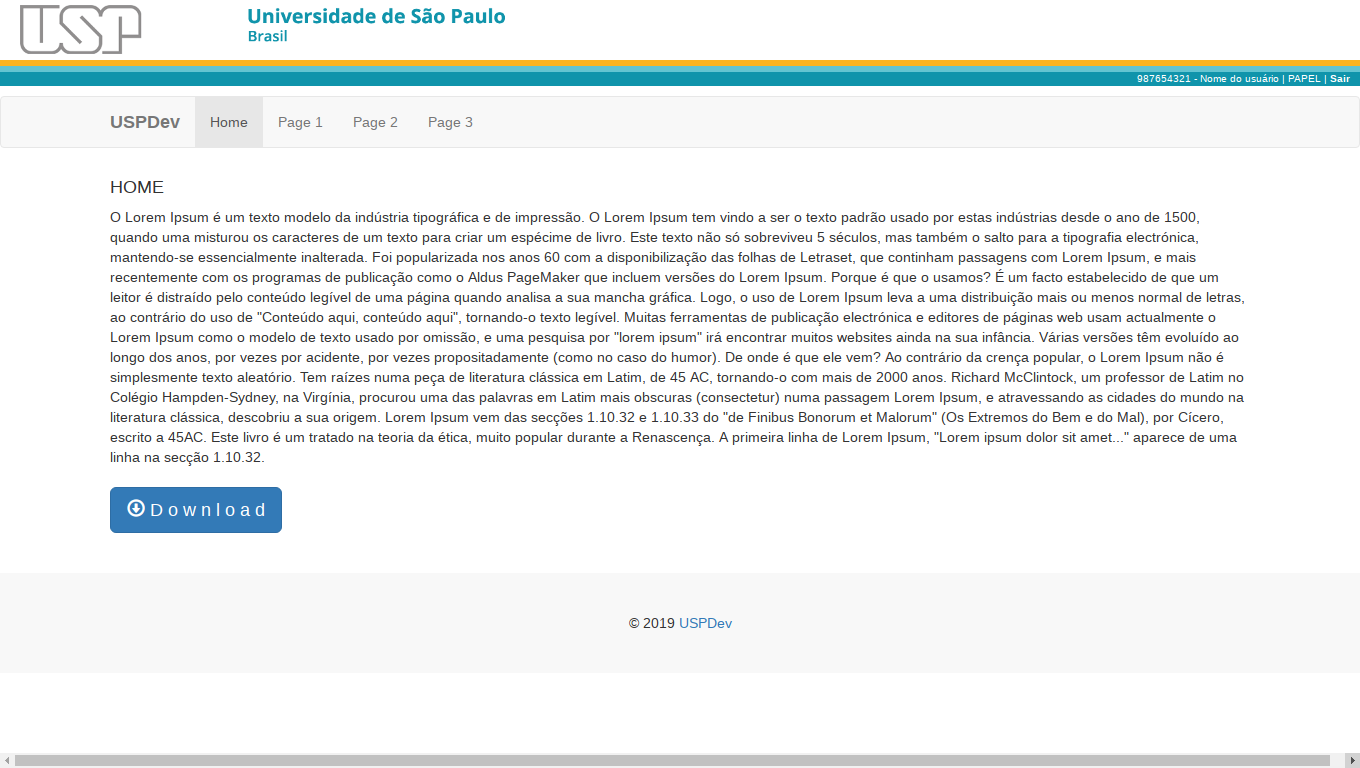
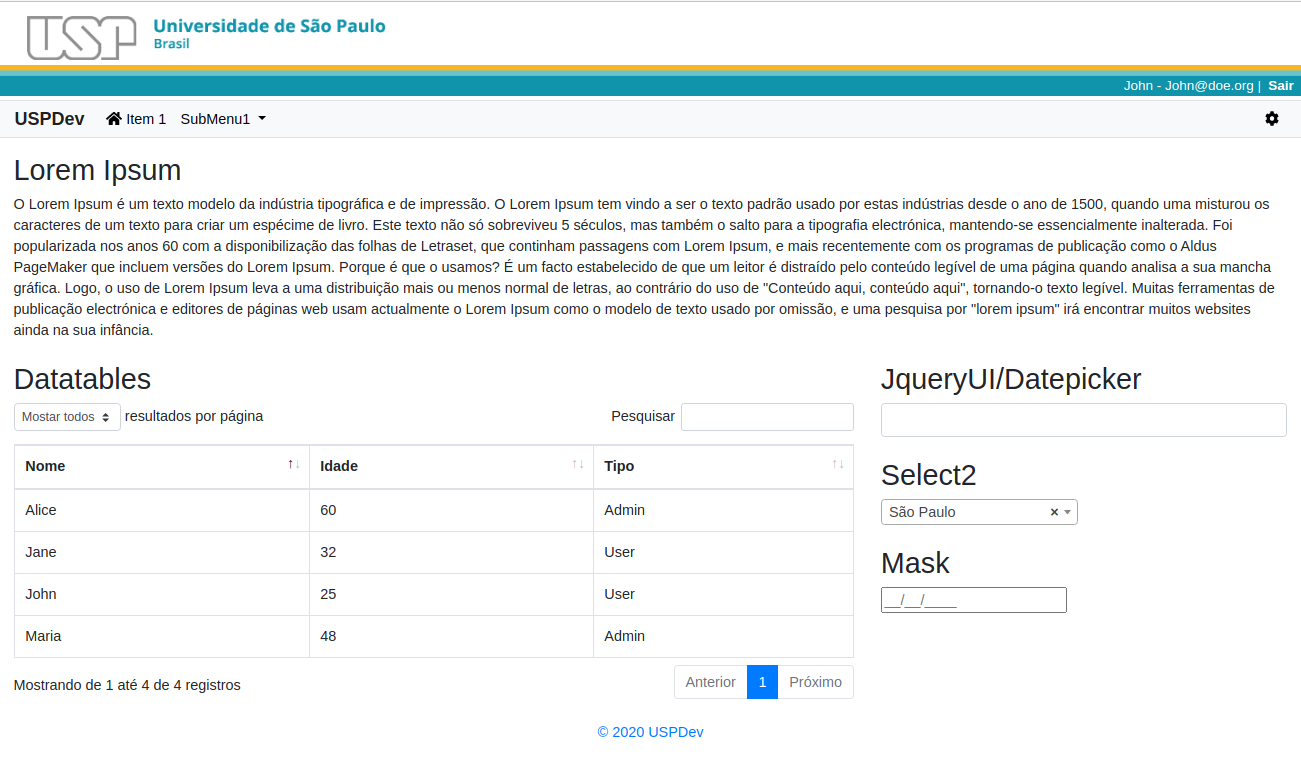
fix #29 - menu responsivo
Também:
- reorganizado js e css
-  exemplos de uso dos js
-  atualização do readme

diff --git a/resources/assets/js/script.js b/resources/assets/js/script.js
@@ -1,0 +1,39 @@
+$(document).ready(function() {
+
+    //JqueryUI:Datepicker
+    $('.datepicker, .datePicker').datepicker({
+        dateFormat: 'dd/mm/yy'
+        , dayNames: ['Domingo', 'Segunda', 'Terça', 'Quarta', 'Quinta', 'Sexta', 'Sábado']
+        , dayNamesMin: ['D', 'S', 'T', 'Q', 'Q', 'S', 'S', 'D']
+        , dayNamesShort: ['Dom', 'Seg', 'Ter', 'Qua', 'Qui', 'Sex', 'Sáb', 'Dom']
+        , monthNames: ['Janeiro', 'Fevereiro', 'Março', 'Abril', 'Maio', 'Junho', 'Julho', 'Agosto', 'Setembro', 'Outubro', 'Novembro', 'Dezembro']
+        , monthNamesShort: ['Jan', 'Fev', 'Mar', 'Abr', 'Mai', 'Jun', 'Jul', 'Ago', 'Set', 'Out', 'Nov', 'Dez']
+        , nextText: 'Próximo'
+        , prevText: 'Anterior'
+    });
+
+    //DataTables
+    $('.dataTable, .datatable').DataTable({
+        language: {
+            url: 'https://cdn.datatables.net/plug-ins/1.10.19/i18n/Portuguese-Brasil.json'
+        }
+        , paging: true
+        , lengthChange: true
+        , searching: true
+        , ordering: true
+        , info: true
+        , autoWidth: true
+        , lengthMenu: [
+            [10, 25, 50, 100, -1]
+            , ['10 linhas', '25 linhas', '50 linhas', '100 linhas', 'Mostar todos']
+        ]
+        , pageLength: -1
+    });
+
+    //Initialize Select2 Elements
+    $('.select2').select2({
+        placeholder: "Selecione"
+        , allowClear: true
+    });
+
+});

diff --git a/resources/views/master.blade.php b/resources/views/master.blade.php
@@ -1,9 +1,13 @@
 <!DOCTYPE html>
-<html>
+<html lang="pt_br">
 
 <head>
     <meta charset="utf-8">
+    <meta name="viewport" content="width=device-width, initial-scale=1, shrink-to-fit=no">
+
     <title>@yield('title')</title>
+
+    <link rel="canonical" href="https://github.com/uspdev/laravel-usp-theme">
 
     @section('styles_default')
     <link rel="stylesheet" href="https://maxcdn.bootstrapcdn.com/bootstrap/4.4.1/css/bootstrap.min.css">
@@ -18,65 +22,41 @@
         integrity="sha384-UO2eT0CpHqdSJQ6hJty5KVphtPhzWj9WO1clHTMGa3JDZwrnQq4sF86dIHNDz0W1" crossorigin="anonymous">
     </script>
     <script src="https://maxcdn.bootstrapcdn.com/bootstrap/4.4.1/js/bootstrap.min.js"></script>
-    <script src="https://cdnjs.cloudflare.com/ajax/libs/font-awesome/5.13.0/js/all.min.js"></script>
-    <script src="https://cdnjs.cloudflare.com/ajax/libs/jquery.mask/1.14.16/jquery.mask.js"></script>
     @show
     @yield('javascripts_head')
 </head>
 
 <body>
-
-    <div class="container-fluid">
+    <div class="container-fluid d-none d-sm-block">
+        {{-- Vai ocultar em mobile --}}
         <div class="row">
             <div class="col-md-12 logos-header">
                 <a class="logo-imagem" href="/">
-                    <img src="{{ asset('/vendor/laravel-usp-theme/images/usp-logo.png') }}" alt="Logo da Universidade de São Paulo" />
+                    <img src="{{ asset('/vendor/laravel-usp-theme/images/usp-logo.png') }}"
+                        alt="Logo da Universidade de São Paulo" />
                 </a>
                 <a class="logo-texto" href="/">
-                    <img src="{{ asset('/vendor/laravel-usp-theme/images/usp-logo-texto.png') }}" alt="Universidade de São Paulo" />
+                    <img src="{{ asset('/vendor/laravel-usp-theme/images/usp-logo-texto.png') }}"
+                        alt="Universidade de São Paulo" />
                 </a>
-            </div>
-        </div>
-
-        <div class="row">
-            <div class="col-md-12">
-                <div class="logo-faixa">
-                    <div Class="d-flex justify-content-end">
-
-                        @auth
-                            {{ Auth::user()->name }} - {{ Auth::user()->email }} |
-                            @if ( $logout_method == 'POST' )
-                                <form action="{{ $logout_url }}" method="POST" class="form-inline" 
-                                    style="display:inline-block" id="logout_form">
-                                    {{ csrf_field() }}
-                                    <!-- O uso do link ao invés do botao é para poder formatar corretamente -->
-                                    <a onclick="document.getElementById('logout_form').submit(); return false;"
-                                        class="font-weight-bold text-white nounderline pr-2 pl-2" href>Sair</a>
-                                </form>
-                            @else
-                                <a class="font-weight-bold text-white nounderline pr-2 pl-2" href="{{ $logout_url }}">Sair</a>
-                            @endif
-                        @else
-                            Não autenticado |
-                            <a class="font-weight-bold text-white nounderline pr-2 pl-2" href="{{ $login_url }}">Entrar</a>
-                        @endauth
-
-                    </div>
-                </div>
             </div>
         </div>
     </div>
 
+    <div class="logo-faixa">
+        @include('laravel-usp-theme::partials.login_bar')
+    </div>
+    
+    <div class="menu">
+        @include('laravel-usp-theme::partials.menu')
+    </div>
+
     <div class="container-fluid">
         <div class="row">
-            <div class="col-md-12">
-                @include('laravel-usp-theme::partials.menu')
-            </div>
-        </div>
-
-        <div class="row">
-            <div id="content" class="container">
+            <div id="content" class="col-md-12">
                 @section('content')
+
+                <h2>Lorem Ipsum</h2>
                 O Lorem Ipsum é um texto modelo da indústria tipográfica e de impressão. O Lorem Ipsum tem vindo a ser o
                 texto padrão usado por estas indústrias desde o ano de 1500, quando uma misturou os caracteres de um
                 texto para criar um espécime de livro. Este texto não só sobreviveu 5 séculos, mas também o salto para a
@@ -88,16 +68,64 @@
                 letras, ao contrário do uso de "Conteúdo aqui, conteúdo aqui", tornando-o texto legível. Muitas
                 ferramentas de publicação electrónica e editores de páginas web usam actualmente o Lorem Ipsum como o
                 modelo de texto usado por omissão, e uma pesquisa por "lorem ipsum" irá encontrar muitos websites ainda
-                na sua infância. Várias versões têm evoluído ao longo dos anos, por vezes por acidente, por vezes
-                propositadamente (como no caso do humor). De onde é que ele vem? Ao contrário da crença popular, o Lorem
-                Ipsum não é simplesmente texto aleatório. Tem raízes numa peça de literatura clássica em Latim, de 45
-                AC, tornando-o com mais de 2000 anos. Richard McClintock, um professor de Latim no Colégio
-                Hampden-Sydney, na Virgínia, procurou uma das palavras em Latim mais obscuras (consectetur) numa
-                passagem Lorem Ipsum, e atravessando as cidades do mundo na literatura clássica, descobriu a sua origem.
-                Lorem Ipsum vem das secções 1.10.32 e 1.10.33 do "de Finibus Bonorum et Malorum" (Os Extremos do Bem e
-                do Mal), por Cícero, escrito a 45AC. Este livro é um tratado na teoria da ética, muito popular durante a
-                Renascença. A primeira linha de Lorem Ipsum, "Lorem ipsum dolor sit amet..." aparece de uma linha na
-                secção 1.10.32.
+                na sua infância.<br>
+                <br>
+                <div class="row">
+                    <div class="col-md-8">
+                        <h2>Datatables</h2>
+                        <table class="table table-stripped table-hover table-bordered datatable">
+                            <thead>
+                                <tr>
+                                    <th>Nome</th>
+                                    <th>Idade</th>
+                                    <th>Tipo</th>
+                                </tr>
+                            </thead>
+                            <tbody>
+                                <tr>
+                                    <td>John</td>
+                                    <td>25</td>
+                                    <td>User</td>
+                                </tr>
+                                <tr>
+                                    <td>Jane</td>
+                                    <td>32</td>
+                                    <td>User</td>
+                                </tr>
+                                <tr>
+                                    <td>Alice</td>
+                                    <td>60</td>
+                                    <td>Admin</td>
+                                </tr>
+                                <tr>
+                                    <td>Maria</td>
+                                    <td>48</td>
+                                    <td>Admin</td>
+                                </tr>
+                            </tbody>
+                        </table>
+                    </div>
+                    <div class="col-md-4">
+                        <h2>JqueryUI/Datepicker</h2>
+                        <input type="text" class="form-control datepicker" name="data">
+                        <br>
+                        <h2>Select2</h2>
+                        <select class="select2 form-control col-6" name="state">
+                            <option value="SP">São Paulo</option>
+                            <option value="RJ">Rio de Janeiro</option>
+                            <option value="PR">Paraná</option>
+                            <option value="SC">Santa Catarina</option>
+                            <option value="MG">Minas Gerais</option>
+                            <option value="GO">Goiás</option>
+                        </select>
+                        <br>
+                        <br>
+                        <h2>Mask</h2>
+                        <input type="text" name="Data" data-mask="00/00/0000" placeholder="__/__/____">
+
+                    </div>
+                </div>
+
                 @show
             </div>
         </div>
@@ -105,65 +133,32 @@
         @include('laravel-usp-theme::partials.footer')
 
         @section('js_bottom_def')
-        <script type="text/javascript" src="{{ asset('/vendor/laravel-usp-theme/js/script.js') }}"></script>
-        <!-- Datepicker -->
+        <!-- JqueryUI -->
         <link rel="stylesheet" href="https://code.jquery.com/ui/1.12.1/themes/base/jquery-ui.css">
-        <script src="https://code.jquery.com/jquery-1.12.4.js"></script>
         <script src="https://code.jquery.com/ui/1.12.1/jquery-ui.js"></script>
-        <script type="text/javascript">
-        $(function () {
-            //Datepicker
-            $('.datepicker').datepicker({
-                dateFormat: 'dd/mm/yy',
-                dayNames: ['Domingo','Segunda','Terça','Quarta','Quinta','Sexta','Sábado'],
-                dayNamesMin: ['D','S','T','Q','Q','S','S','D'],
-                dayNamesShort: ['Dom','Seg','Ter','Qua','Qui','Sex','Sáb','Dom'],
-                monthNames: ['Janeiro','Fevereiro','Março','Abril','Maio','Junho','Julho','Agosto','Setembro','Outubro','Novembro','Dezembro'],
-                monthNamesShort: ['Jan','Fev','Mar','Abr','Mai','Jun','Jul','Ago','Set','Out','Nov','Dez'],
-                nextText: 'Próximo',
-                prevText: 'Anterior'
-            });
-        });
-        </script>   
-        <!-- Datepicker --> 
+        <!-- JqueryUI -->
+
         <!-- DataTables -->
-        <link rel="stylesheet" href="https://cdn.datatables.net/1.10.19/css/jquery.dataTables.min.css">
-        <script src="https://cdn.datatables.net/1.10.19/js/jquery.dataTables.min.js"></script>
-        <script type="text/javascript">
-        $(function () {
-            //DataTables
-            $('.dataTable').DataTable({
-                language    	: {
-                    url         : 'https://cdn.datatables.net/plug-ins/1.10.19/i18n/Portuguese-Brasil.json'
-                },  
-                paging      	: true,
-                lengthChange	: true,
-                searching   	: true,
-                ordering    	: true,
-                info        	: true,
-                autoWidth   	: true,
-                lengthMenu		: [
-					[ 10, 25, 50, 100, -1 ],
-					[ '10 linhas', '25 linhas', '50 linhas', '100 linhas', 'Mostar todos' ]
-    			],
-				pageLength  	: -1
-            });
-        });
-        </script>
-        <!-- DataTables -->        
+        {{-- <link rel="stylesheet" href="https://cdn.datatables.net/1.10.21/css/jquery.dataTables.min.css"> --}}
+        <link rel="stylesheet" href="https://cdn.datatables.net/1.10.21/css/dataTables.bootstrap4.min.css">
+        <script src="https://cdn.datatables.net/1.10.21/js/jquery.dataTables.min.js"></script>
+        <script src="https://cdn.datatables.net/1.10.21/js/dataTables.bootstrap4.min.js"></script>
+        <!-- DataTables -->
+
         <!-- Select2 -->
         <link href="https://cdn.jsdelivr.net/npm/select2@4.0.12/dist/css/select2.min.css" rel="stylesheet" />
         <script src="https://cdn.jsdelivr.net/npm/select2@4.0.12/dist/js/select2.min.js"></script>
-        <script type="text/javascript">
-        $(function() {
-            //Initialize Select2 Elements
-            $('.select2').select2({
-                placeholder:    "Selecione",
-                allowClear:     true
-            });
-        });
-        </script>
         <!-- Select2 -->
+
+        <!-- Mask -->
+        <script src="https://cdnjs.cloudflare.com/ajax/libs/jquery.mask/1.14.16/jquery.mask.js"></script>
+        <!-- Mask -->
+
+        <!-- FontAwesome -->
+        <script src="https://cdnjs.cloudflare.com/ajax/libs/font-awesome/5.13.0/js/all.min.js"></script>
+        <!-- FontAwesome -->
+
+        <script type="text/javascript" src="{{ asset('/vendor/laravel-usp-theme/js/script.js') }}"></script>
         @show
         @yield('javascripts_bottom')
 

diff --git a/resources/views/partials/login_bar.blade.php b/resources/views/partials/login_bar.blade.php
@@ -1,0 +1,19 @@
+<div Class="d-flex justify-content-end">
+
+    @auth
+    {{ Auth::user()->name }} - {{ Auth::user()->email }} |
+    @if ( $logout_method == 'POST' )
+    <form action="{{ $logout_url }}" method="POST" class="form-inline" style="display:inline-block" id="logout_form">
+        {{ csrf_field() }}
+        <!-- O uso do link ao invés do botao é para poder formatar corretamente -->
+        <a onclick="document.getElementById('logout_form').submit(); return false;" class="font-weight-bold text-white nounderline pr-2 pl-2" href>Sair</a>
+    </form>
+    @else
+    <a class="font-weight-bold text-white nounderline pr-2 pl-2" href="{{ $logout_url }}">Sair</a>
+    @endif
+    @else
+    Não autenticado |
+    <a class="font-weight-bold text-white nounderline pr-2 pl-2" href="{{ $login_url }}">Entrar</a>
+    @endauth
+
+</div>

diff --git a/README.md b/README.md
@@ -18,14 +18,15 @@ Inicialmente desenvolvido por [@marcelomodesto](https://github.com/marcelomodest
 
 Este tema foi testado no Laravel 5.6.x e 7.24.x mas deve funcionar em outras versões.
 
-Ele é baseado no bootstrap 4.4.1 então todos os estilos dele estão disponíveis.
+Ele é baseado no bootstrap 4.4 então todos os estilos dele estão disponíveis.
 
-Possui pré-carregado:
-- fontawesome 5.13.0
-- jquery 3.3.1
-- datatables 1.10.19
-- select2 4.0.12
-
+Possui também pré-carregado:
+- fontawesome
+- jquery
+- jqueryUI
+- datatables
+- select2
+- datepicker
 
 ## Instalação
 
@@ -60,7 +61,7 @@ acrescentando a linha acima na seção `scripts`->`post-autoload-dump`. Veja um 
     }
 
 
-E por fim publique os arquivos de configuração:
+Publique os arquivos de configuração:
 
     php artisan vendor:publish --provider="Uspdev\UspTheme\ServiceProvider" --tag=config
 
@@ -107,3 +108,10 @@ Exemplo básico:
     @section('footer')
         Seu código
     @endsection
+
+## Changelog
+
+28/08/2020
+* Layout responsivo com suporte mobile: ajustes no menu
+* Organizando js e css
+* Exemplo das bibliotecas js carregadas
